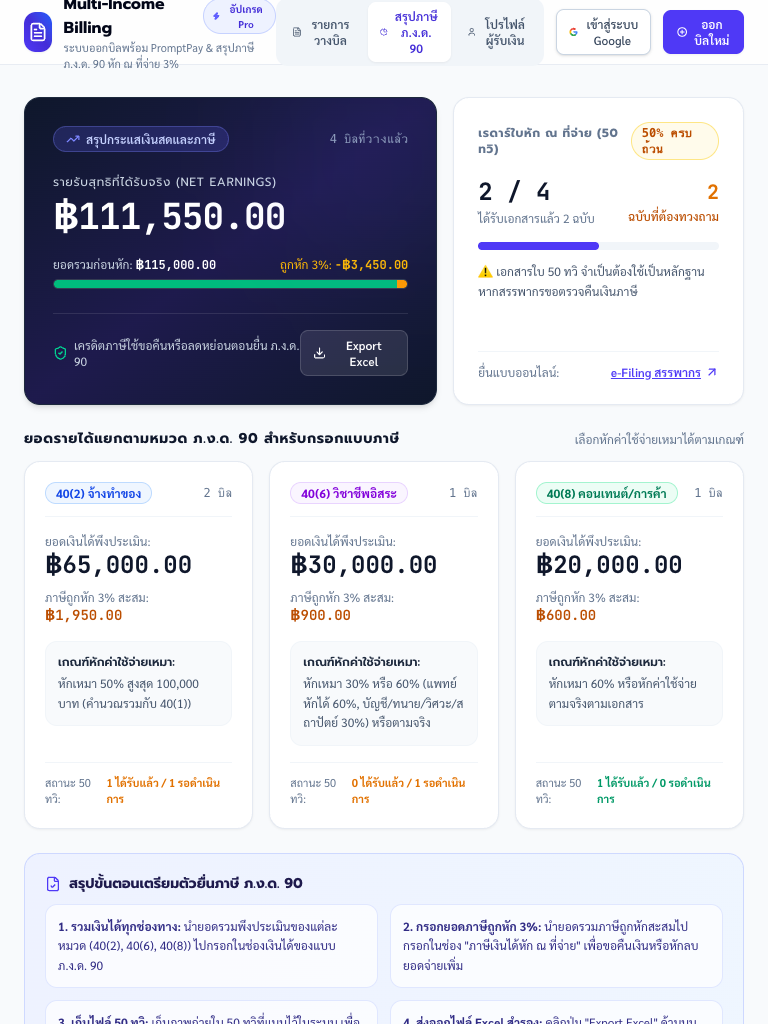
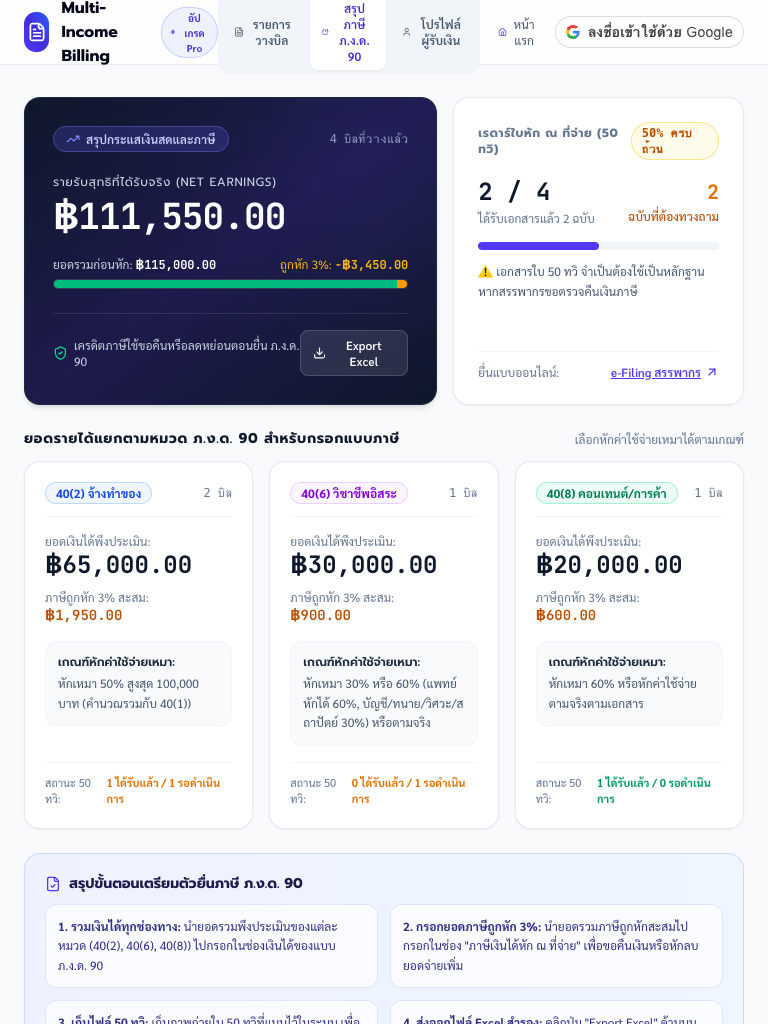
fix(maintenance): fix tablet header overflow and update verification harness for default landing page

diff --git a/src/App.tsx b/src/App.tsx
@@ -268,13 +268,13 @@ export default function App() {
                   </button>
                 )}
               </div>
-              <p className="text-[11px] text-slate-500">
+              <p className="hidden lg:block text-[11px] text-slate-500">
                 ระบบออกบิลพร้อม PromptPay & สรุปภาษี ภ.ง.ด. 90 หัก ณ ที่จ่าย 3%
               </p>
             </div>
           </div>
 
-          <div className="flex items-center gap-2 sm:gap-3">
+          <div className="flex items-center gap-1.5 sm:gap-2">
             {/* Navigation Tabs (Desktop) */}
             <nav className="hidden md:flex items-center gap-1 bg-slate-100 p-1 rounded-xl">
               <button
@@ -337,7 +337,7 @@ export default function App() {
             {/* New Invoice Button (Desktop) */}
             <button
               onClick={() => setShowCreateModal(true)}
-              className="hidden sm:flex items-center gap-1.5 px-3.5 py-1.5 bg-indigo-600 hover:bg-indigo-700 text-white rounded-lg text-xs font-semibold transition shadow-xs cursor-pointer"
+              className="hidden lg:flex items-center gap-1.5 px-3.5 py-1.5 bg-indigo-600 hover:bg-indigo-700 text-white rounded-lg text-xs font-semibold transition shadow-xs cursor-pointer"
             >
               <PlusCircle className="w-4 h-4 stroke-[2.5]" />
               <span>ออกบิลใหม่</span>
